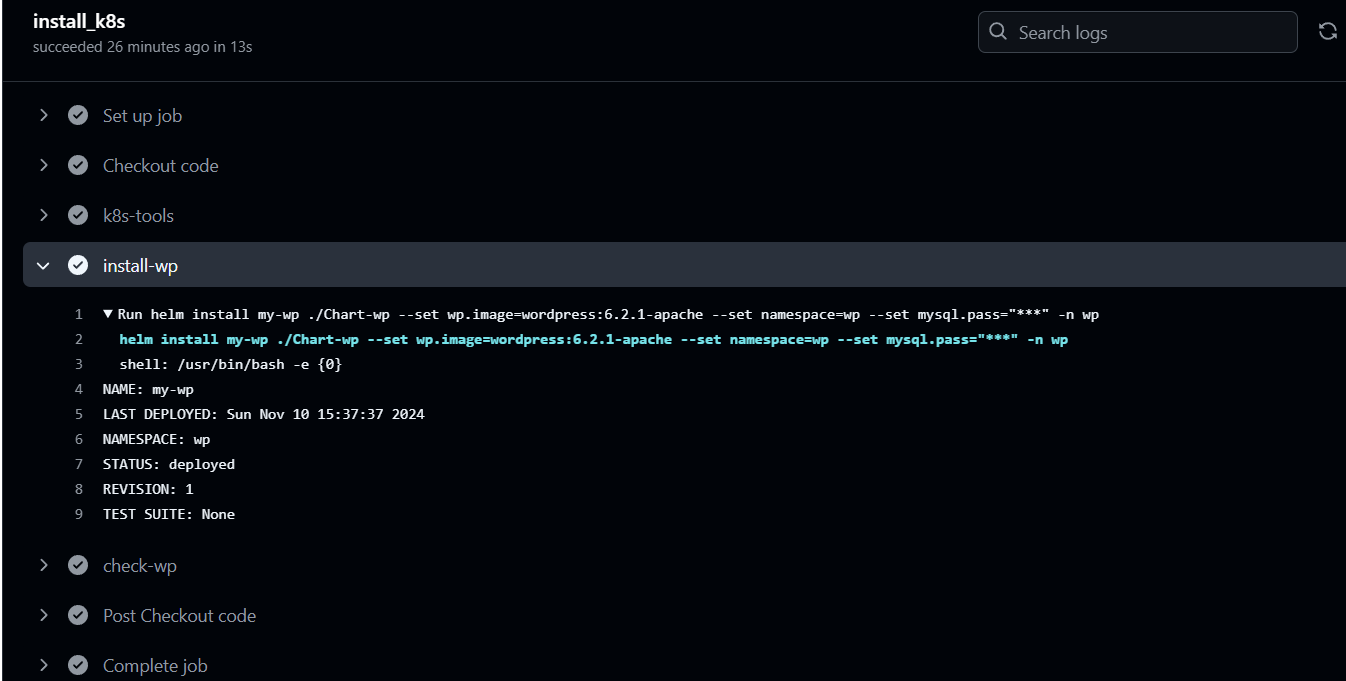
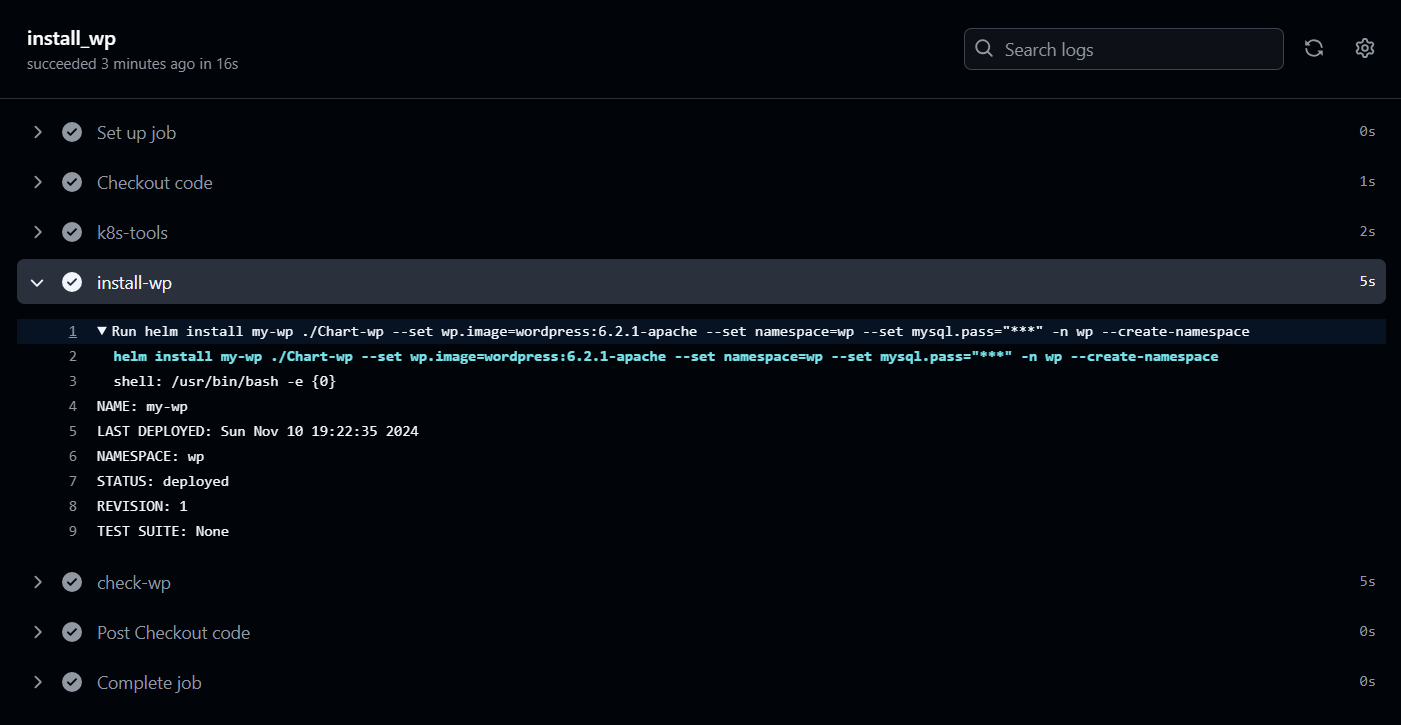
task_5

diff --git a/README.md b/README.md
@@ -20,13 +20,19 @@
 
    - The application is deployed using the Helm chart.
      
-     https://github.com/CiscoSA/rs-wp-helm/actions/runs/11766433641/job/32773948574
+     https://github.com/CiscoSA/rs-wp-helm/actions/runs/11767863023/job/32777021131#step:4:10
 
      ![](Screenshots/task5_2.png)
+
+     https://github.com/CiscoSA/rs-wp-helm/actions/runs/11767863023/job/32777021131#step:5:27
 
      ![](Screenshots/task5_3.png)
 
    - The application is accessible from the internet.
+
+     ![](Screenshots/task5_4.png)
+
+     ![](Screenshots/task5_5.png)     
 
 3. **Repository Submission (5 points)**
 
@@ -41,9 +47,21 @@
 
    - The application is verified to be running and accessible.
 
+     ![](Screenshots/task5_3.png)
+
+     ![](Screenshots/task5_4.png)
+
+     ![](Screenshots/task5_5.png)     
+
+
 5. **Additional Tasks (20 points)**
    - **CI/CD Pipeline (10 points)**
      - A CI/CD pipeline is set up to automate the deployment of the application.
+
+       https://github.com/CiscoSA/rs-wp-helm-pipeline/blob/task_5/.github/workflows/deploy.yml
+
+       
+
    - **Documentation (10 points)**
      - The application setup and deployment process are documented in a README file.
 
